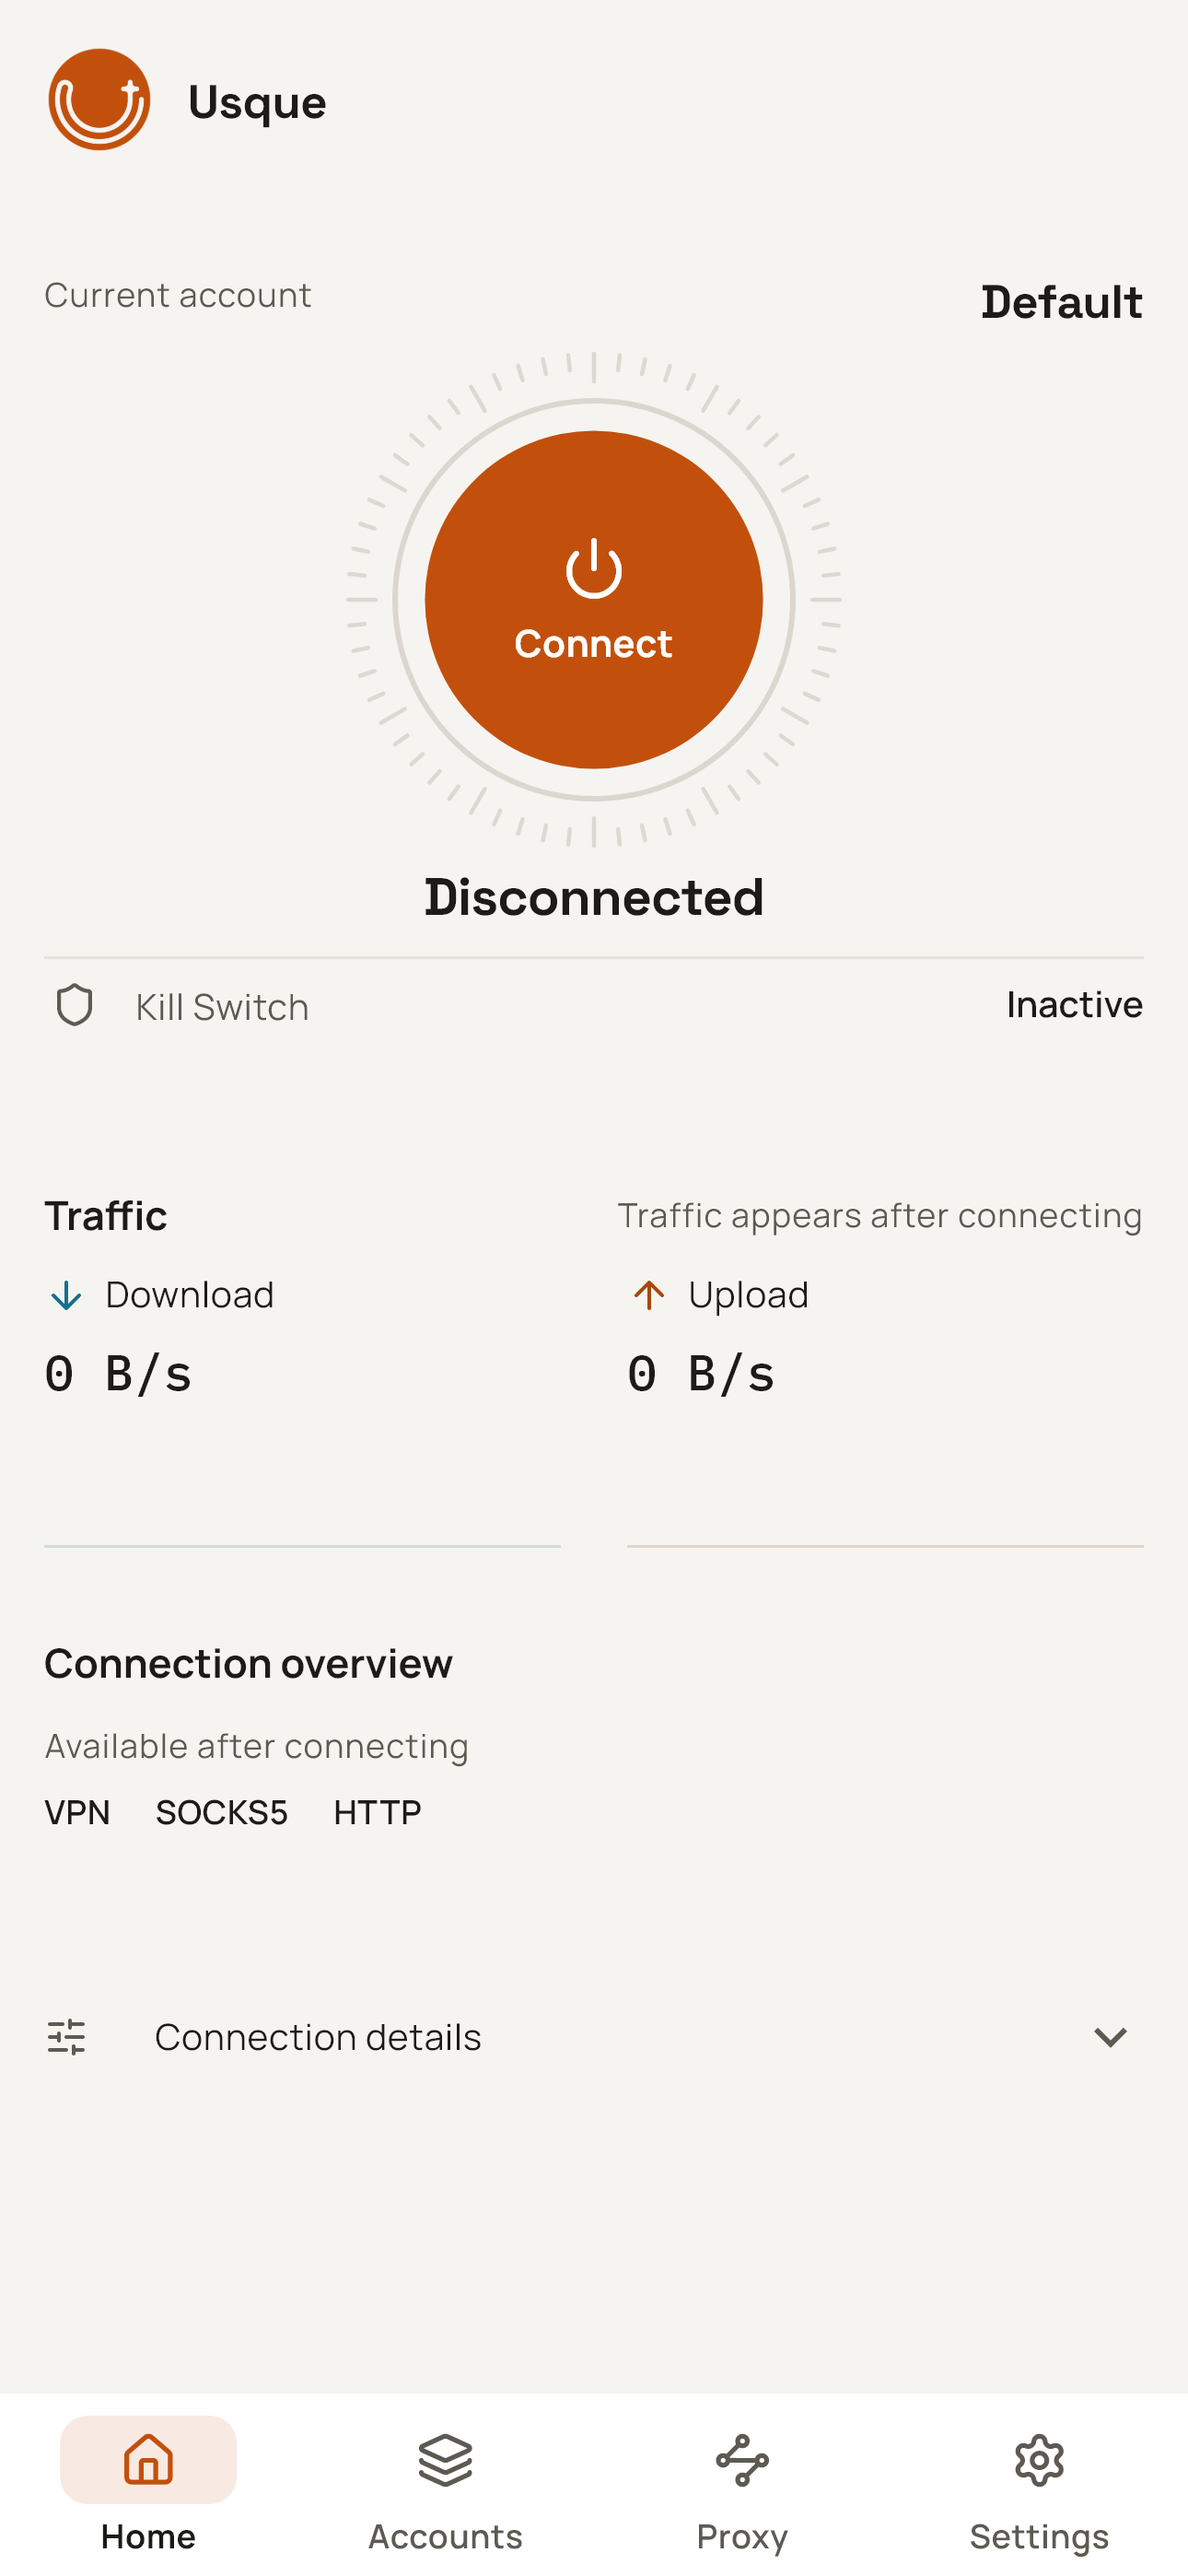
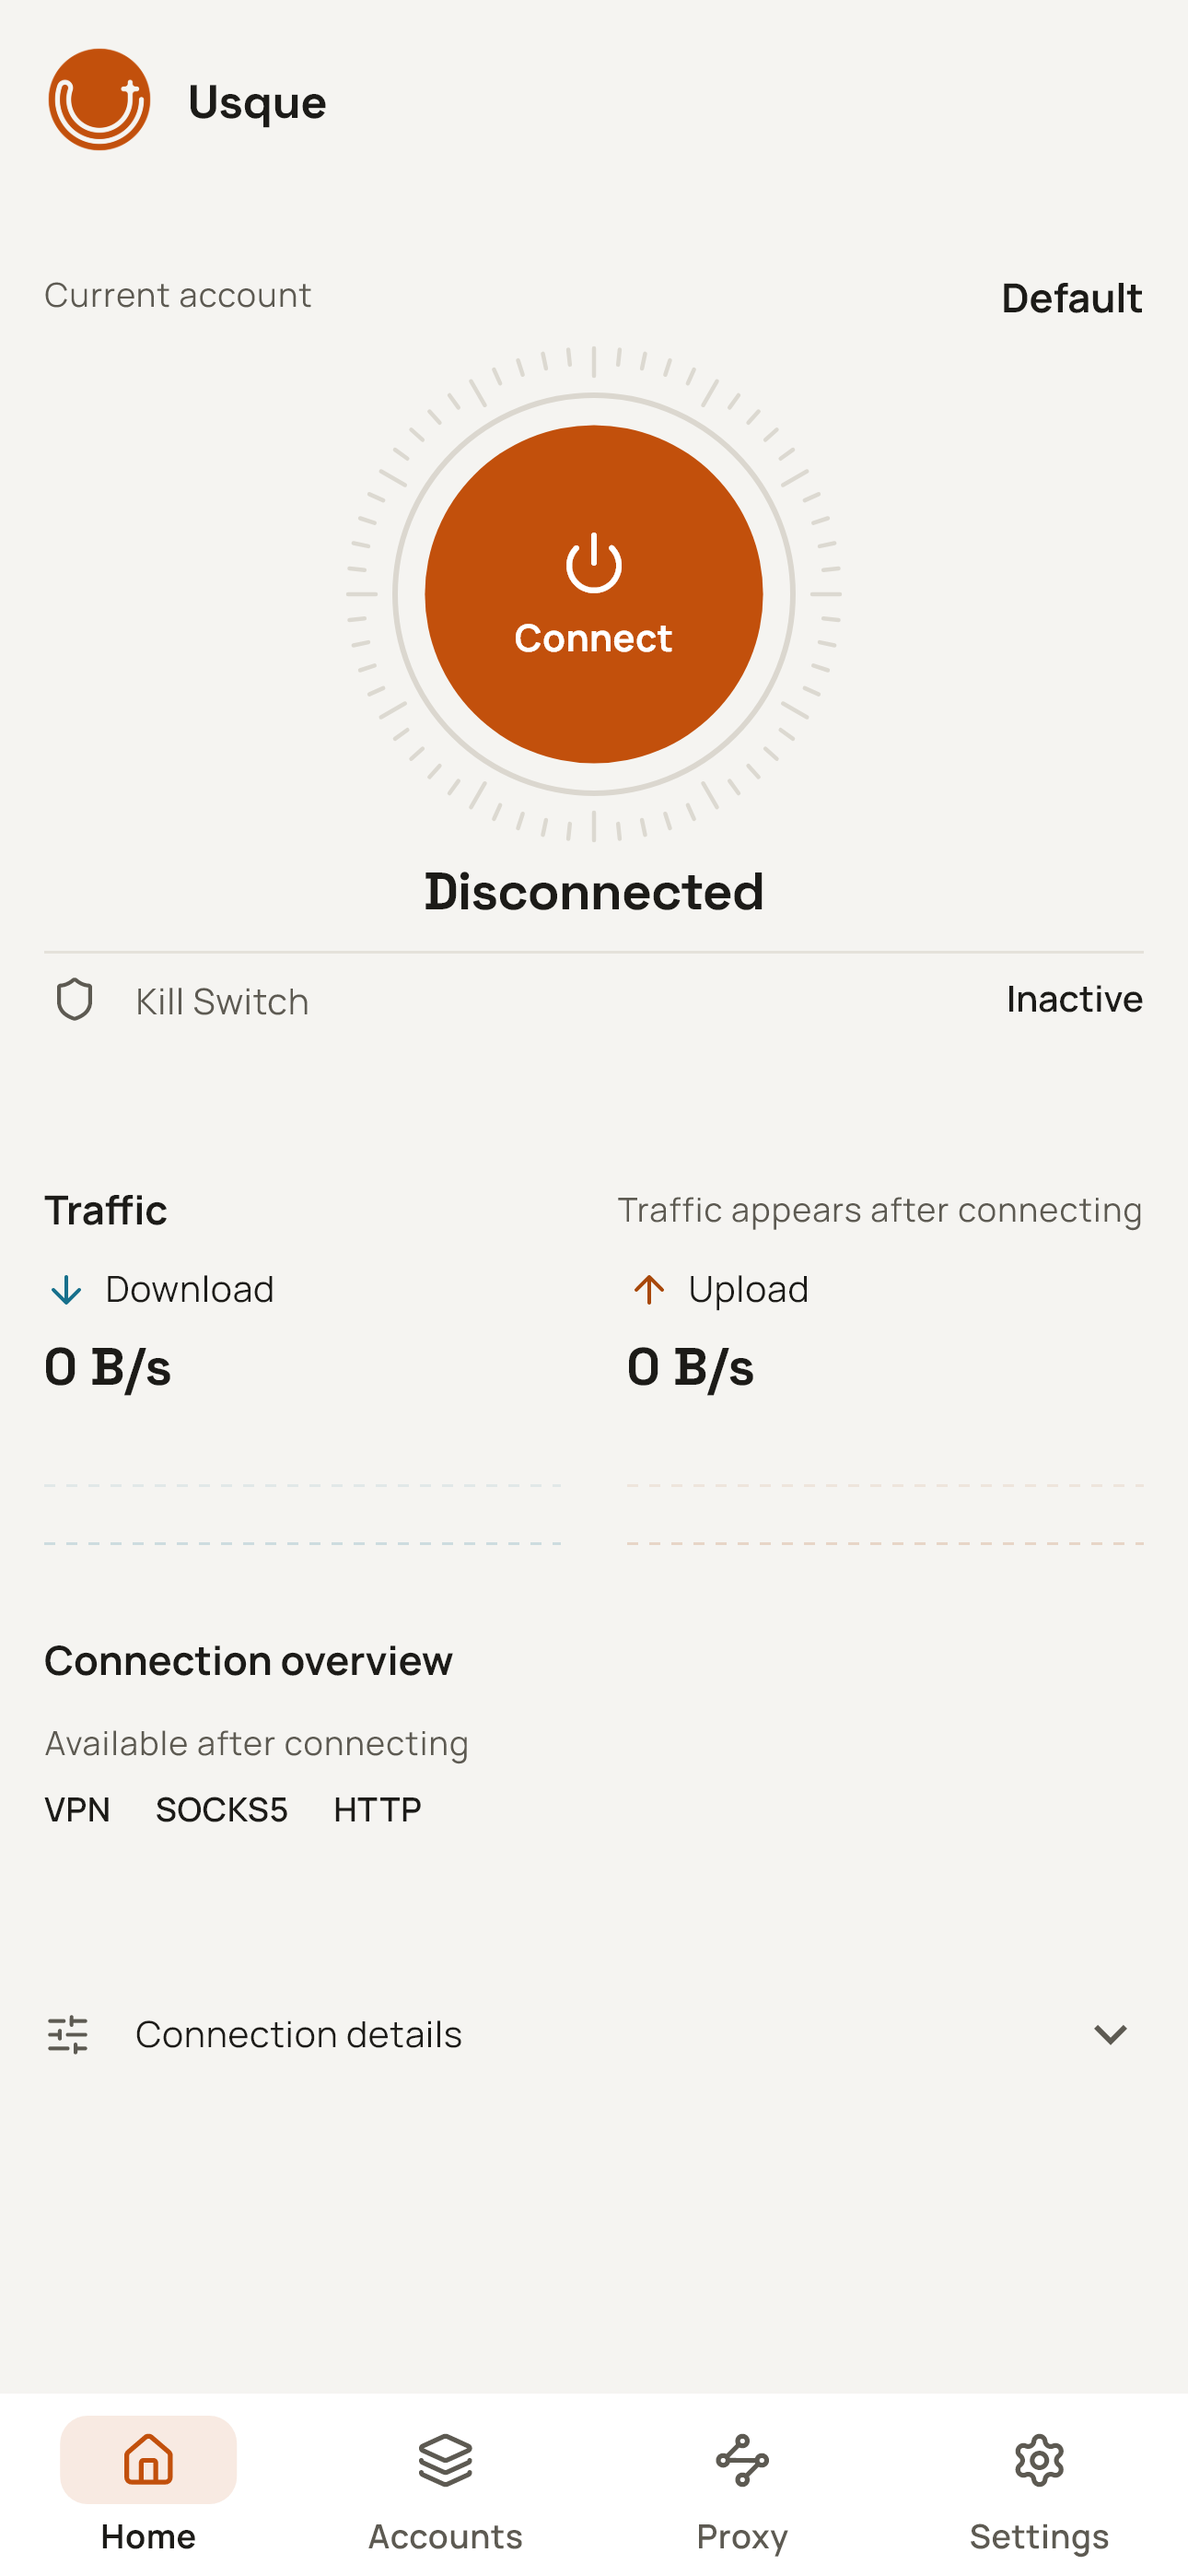
feat(gui): refine home readouts and empty traffic charts
Draw a dashed frame for empty traffic traces, use tabular display figures for rates, protocol and duration, stack the desktop account label, align connection-details icon spacing with neighbouring rows, and dim IPv6 local proxy listeners. Regenerate affected Windows goldens and the README Home previews.

diff --git a/apps/usque_gui/lib/screens/home_screen.dart b/apps/usque_gui/lib/screens/home_screen.dart
@@ -77,6 +77,7 @@ class HomeScreen extends StatelessWidget {
                   details: _HomeDetails(
                     controller: controller,
                     strings: strings,
+                    compact: true,
                   ),
                 ),
               ],
@@ -209,7 +210,11 @@ class _DesktopLocalProxies extends StatelessWidget {
               const SizedBox(width: 8),
               Text(name, style: Theme.of(context).textTheme.bodySmall),
               const SizedBox(width: 8),
-              Flexible(child: MonoValue(value: enabled ? address : '—')),
+              Flexible(
+                child: enabled
+                    ? _ListenerAddresses(addresses: address)
+                    : const MonoValue(value: '—'),
+              ),
             ],
           );
       final values = Wrap(
@@ -254,6 +259,57 @@ class _DesktopLocalProxies extends StatelessWidget {
       );
     },
   );
+}
+
+/// Selectable listener list; IPv6 listeners are secondary to the IPv4 one.
+class _ListenerAddresses extends StatefulWidget {
+  const _ListenerAddresses({required this.addresses});
+
+  /// Comma-separated listeners, kept as one string so selector equality holds.
+  final String addresses;
+
+  @override
+  State<_ListenerAddresses> createState() => _ListenerAddressesState();
+}
+
+class _ListenerAddressesState extends State<_ListenerAddresses> {
+  // See MonoValue: SelectableText must not inherit the page's storage slot.
+  final _textStorage = PageStorageBucket();
+
+  @override
+  Widget build(BuildContext context) {
+    final scheme = Theme.of(context).colorScheme;
+    final parts = widget.addresses.split(', ');
+    final spans = <InlineSpan>[];
+    for (var i = 0; i < parts.length; i++) {
+      if (i > 0) {
+        spans.add(
+          TextSpan(
+            text: ', ',
+            style: TextStyle(color: scheme.onSurfaceVariant),
+          ),
+        );
+      }
+      spans.add(
+        TextSpan(
+          text: parts[i],
+          style: parts[i].startsWith('[')
+              ? TextStyle(
+                  color: scheme.onSurfaceVariant,
+                  fontWeight: FontWeight.w400,
+                )
+              : null,
+        ),
+      );
+    }
+    return PageStorage(
+      bucket: _textStorage,
+      child: SelectableText.rich(
+        TextSpan(children: spans),
+        style: UsqueTheme.mono(context, weight: FontWeight.w500),
+      ),
+    );
+  }
 }
 
 class _NarrowBrandHeader extends StatelessWidget {
@@ -605,7 +661,7 @@ class _ConnectionHero extends StatelessWidget {
                       maxLines: 2,
                       overflow: TextOverflow.ellipsis,
                       textAlign: TextAlign.end,
-                      style: theme.textTheme.titleLarge,
+                      style: theme.textTheme.titleMedium,
                     ),
                   ),
                 ),
@@ -637,30 +693,23 @@ class _ConnectionHero extends StatelessWidget {
     Widget overview() => Column(
       crossAxisAlignment: CrossAxisAlignment.stretch,
       children: [
-        Row(
-          crossAxisAlignment: CrossAxisAlignment.start,
-          children: [
-            Text(
-              strings.get('active_profile'),
-              style: theme.textTheme.bodySmall?.copyWith(
-                color: theme.colorScheme.onSurfaceVariant,
-              ),
-            ),
-            const SizedBox(width: 12),
-            Expanded(
-              child: Tooltip(
-                message: view.profileName,
-                child: Text(
-                  view.profileName,
-                  maxLines: 2,
-                  overflow: TextOverflow.ellipsis,
-                  style: theme.textTheme.titleMedium,
-                ),
-              ),
-            ),
-          ],
+        Text(
+          strings.get('active_profile'),
+          style: theme.textTheme.bodySmall?.copyWith(
+            color: theme.colorScheme.onSurfaceVariant,
+          ),
         ),
-        const SizedBox(height: 16),
+        const SizedBox(height: 5),
+        Tooltip(
+          message: view.profileName,
+          child: Text(
+            view.profileName,
+            maxLines: 2,
+            overflow: TextOverflow.ellipsis,
+            style: theme.textTheme.titleMedium,
+          ),
+        ),
+        const SizedBox(height: 14),
         statusText(),
         const SizedBox(height: 20),
         _DesktopSessionReadout(controller: controller),
@@ -679,12 +728,12 @@ class _ConnectionHero extends StatelessWidget {
               constraints.maxWidth >= 560 &&
               MediaQuery.textScalerOf(context).scale(14) <= 21;
           if (split) {
-            final size = (constraints.maxWidth - 200 - 32).clamp(240.0, 330.0);
+            final size = (constraints.maxWidth - 220 - 24).clamp(224.0, 330.0);
             return Row(
               crossAxisAlignment: CrossAxisAlignment.start,
               children: [
                 SizedBox(width: size, child: ring(size)),
-                const SizedBox(width: 32),
+                const SizedBox(width: 24),
                 Expanded(child: overview()),
               ],
             );
@@ -834,10 +883,9 @@ class _TrafficReadout extends StatelessWidget {
               Text(
                 rate == null ? '—' : formatRate(rate),
                 key: ValueKey('home-desktop-$direction-rate'),
-                style: UsqueTheme.mono(
+                style: UsqueTheme.readout(
                   context,
-                  size: theme.textTheme.titleMedium?.fontSize,
-                  weight: FontWeight.w500,
+                  size: 16,
                   color: rate == null
                       ? theme.colorScheme.onSurfaceVariant
                       : null,
@@ -986,13 +1034,13 @@ class _DesktopSessionReadout extends StatelessWidget {
                 strings.get('protocol'),
                 view.transport == null
                     ? const EmptyValue(label: '—')
-                    : MonoValue(value: view.transport!),
+                    : Text(view.transport!, style: UsqueTheme.readout(context)),
               ),
               metric(
                 strings.get('address_family'),
                 view.family == null
                     ? const EmptyValue(label: '—')
-                    : MonoValue(value: view.family!),
+                    : Text(view.family!, style: UsqueTheme.readout(context)),
               ),
               metric(strings.get('duration'), LiveDuration(since: view.since)),
             ],
@@ -1064,25 +1112,43 @@ class _DesktopSessionReadout extends StatelessWidget {
 }
 
 class _HomeDetails extends StatelessWidget {
-  const _HomeDetails({required this.controller, required this.strings});
+  const _HomeDetails({
+    required this.controller,
+    required this.strings,
+    this.compact = false,
+  });
   final AppController controller;
   final AppStrings strings;
+  final bool compact;
+
+  // Leading geometry matches the neighbouring rows: ReadoutRow on phones and
+  // the Kill Switch/location rows on desktop.
   @override
   Widget build(BuildContext context) => Material(
     color: Colors.transparent,
-    child: ExpansionTile(
-      key: const PageStorageKey('home-connection-details'),
-      leading: const Icon(LucideIcons.slidersHorizontal, size: 16),
-      title: Text(
-        strings.get('connection_details'),
-        style: Theme.of(context).textTheme.bodyMedium,
+    child: ListTileTheme.merge(
+      minLeadingWidth: compact ? 22 : 16,
+      horizontalTitleGap: compact ? 11 : 8,
+      child: ExpansionTile(
+        key: const PageStorageKey('home-connection-details'),
+        leading: compact
+            ? Icon(
+                LucideIcons.slidersHorizontal,
+                size: 17,
+                color: Theme.of(context).colorScheme.onSurfaceVariant,
+              )
+            : const Icon(LucideIcons.slidersHorizontal, size: 16),
+        title: Text(
+          strings.get('connection_details'),
+          style: Theme.of(context).textTheme.bodyMedium,
+        ),
+        dense: true,
+        minTileHeight: 48,
+        tilePadding: EdgeInsets.zero,
+        shape: const Border(),
+        collapsedShape: const Border(),
+        children: [_ConnectionDetailsReadout(controller: controller)],
       ),
-      dense: true,
-      minTileHeight: 48,
-      tilePadding: EdgeInsets.zero,
-      shape: const Border(),
-      collapsedShape: const Border(),
-      children: [_ConnectionDetailsReadout(controller: controller)],
     ),
   );
 }

diff --git a/apps/usque_gui/lib/widgets/sparkline.dart b/apps/usque_gui/lib/widgets/sparkline.dart
@@ -48,6 +48,10 @@ class _SparklinePainter extends CustomPainter {
     final Paint baseline = Paint()
       ..strokeWidth = 1
       ..color = color.withValues(alpha: 0.18);
+    if (samples.every((sample) => sample == null)) {
+      _paintEmpty(canvas, size, baseline);
+      return;
+    }
     canvas.drawLine(
       Offset(0, size.height - 0.5),
       Offset(size.width, size.height - 0.5),
@@ -114,6 +118,32 @@ class _SparklinePainter extends CustomPainter {
           ..strokeJoin = StrokeJoin.round
           ..strokeCap = StrokeCap.round
           ..color = color,
+      );
+    }
+  }
+
+  /// An empty window draws a dashed frame so it reads as "no data yet" rather
+  /// than a missing chart.
+  void _paintEmpty(Canvas canvas, Size size, Paint baseline) {
+    final Paint guide = Paint()
+      ..strokeWidth = 1
+      ..color = color.withValues(alpha: 0.09);
+    final int guides = size.height >= 64 ? 2 : 1;
+    for (int i = 1; i <= guides; i += 1) {
+      final double y = (size.height * i / (guides + 1)).roundToDouble() + 0.5;
+      _dashedLine(canvas, y, size.width, guide);
+    }
+    _dashedLine(canvas, size.height - 0.5, size.width, baseline);
+  }
+
+  void _dashedLine(Canvas canvas, double y, double width, Paint paint) {
+    const double dash = 4;
+    const double gap = 4;
+    for (double x = 0; x < width; x += dash + gap) {
+      canvas.drawLine(
+        Offset(x, y),
+        Offset((x + dash).clamp(0, width).toDouble(), y),
+        paint,
       );
     }
   }

diff --git a/apps/usque_gui/lib/core/usque_theme.dart b/apps/usque_gui/lib/core/usque_theme.dart
@@ -338,6 +338,26 @@ class UsqueTheme {
     );
   }
 
+  /// Live readouts such as rates, protocols and durations. Tabular figures
+  /// keep changing digits from shifting adjacent text.
+  static TextStyle readout(
+    BuildContext context, {
+    double? size,
+    FontWeight weight = FontWeight.w600,
+    Color? color,
+  }) {
+    return TextStyle(
+      fontFamily: UsqueFonts.display,
+      fontFamilyFallback: UsqueFonts.fallback,
+      fontSize: size ?? 13.5,
+      fontWeight: weight,
+      height: 1.3,
+      letterSpacing: 0,
+      fontFeatures: const <FontFeature>[FontFeature.tabularFigures()],
+      color: color ?? Theme.of(context).colorScheme.onSurface,
+    );
+  }
+
   static const TextTheme _textTheme = TextTheme(
     displayLarge: TextStyle(
       fontFamily: UsqueFonts.display,

diff --git a/apps/usque_gui/lib/widgets/live_duration.dart b/apps/usque_gui/lib/widgets/live_duration.dart
@@ -2,6 +2,7 @@ import 'dart:async';
 
 import 'package:flutter/material.dart';
 
+import '../core/usque_theme.dart';
 import 'common.dart';
 
 /// Formats [since] as a running clock. Rebuilds once a second so a parent
@@ -62,6 +63,9 @@ class _LiveDurationState extends State<LiveDuration> {
     if (since == null) {
       return const EmptyValue(label: '—');
     }
-    return MonoValue(value: formatDuration(widget.now().difference(since)));
+    return Text(
+      formatDuration(widget.now().difference(since)),
+      style: UsqueTheme.readout(context),
+    );
   }
 }

diff --git a/apps/usque_gui/lib/widgets/mobile_home_panels.dart b/apps/usque_gui/lib/widgets/mobile_home_panels.dart
@@ -145,11 +145,7 @@ class MobileTrafficPanel extends StatelessWidget {
                     const SizedBox(height: 6),
                     Text(
                       formatRate(rate),
-                      style: UsqueTheme.mono(
-                        context,
-                        size: 18,
-                        weight: FontWeight.w500,
-                      ),
+                      style: UsqueTheme.readout(context, size: 19),
                     ),
                     const SizedBox(height: 8),
                     Sparkline(
